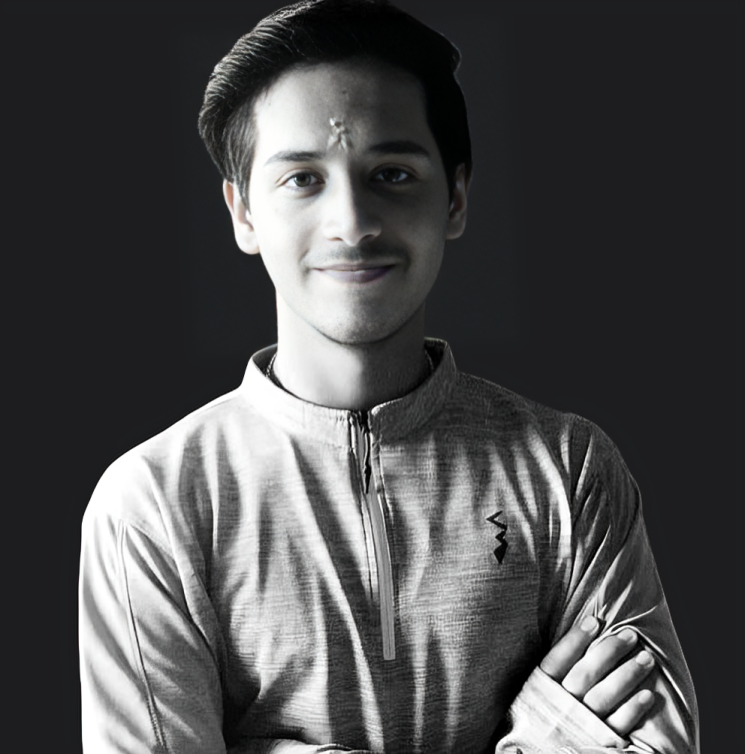
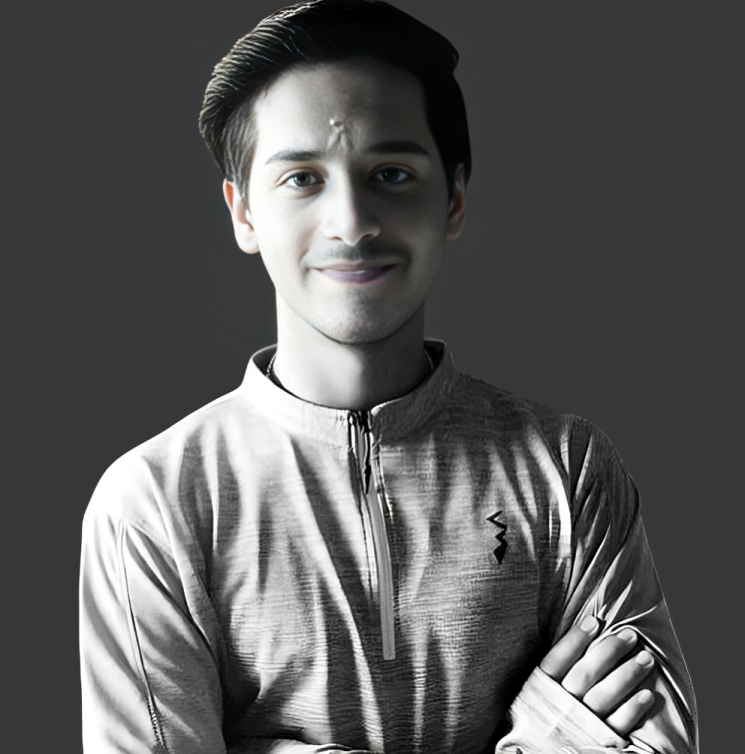
fix: successfull shifted the resume to landing page

diff --git a/app/page.jsx b/app/page.jsx
@@ -11,31 +11,32 @@ export default function Home() {
   const { onCursorIn, onCursorOut } = useHover();
 
   return (
-    <Box className="main-content mx-auto ">
-      <Box className="hero relative w-[90%] h-screen md:h-screen lg:h-auto mx-auto !z-30">
+    <Box className="relative top-[-20vh] main-content mt-0 mx-auto bg-[var(--gray-2)]">
+      {/* Hero */}
+      <Box className="hero relative w-full lg:w-[90%] lg:px-0 px-4 overflow-x-hidden  h-screen top-0 mx-auto !z-30">
         {/* Image */}
         <Box
-          className={`relative logo bg-center bg-contain bg-no-repeat !z-30 image-container top-[-12vh] left-[-20px] !w-[100vw] !h-[65vh] md:top-[20px] md:left-[-50px] md:!w-[640px] md:!h-[560px] lg:-top-[19.5vh] lg:left-[1vw] lg:!w-[47vw] lg:!h-[78vh]
+          className={`relative logo bg-center bg-contain bg-no-repeat !z-30 image-container top-[12vh] left-[-10px] !w-[100vw] !h-[65vh] md:top-[200px] md:left-[20px] md:!w-[640px] md:!h-[560px] lg:-top-[0] lg:left-[3vw] lg:!w-[47vw] lg:!h-[78vh] !overflow-hidden
         `}
         >
           <Image
-            src={"/images/me_blacknwhite.png"}
+            src={"/images/me_transparent.png"}
             layout="fill"
             objectFit="cover"
             alt="profile photo "
-            className="!z-30 bg-center !overflow-hidden"
+            className="!z-30 bg-center !overflow-hidden bg-[var(--gray-4)]"
             priority
           />
         </Box>
 
         {/* Heading */}
         <Box
-          className={`absolute top-[60vh] md:w-[360px] md:ml-[15px] md:mt-[115px] md:left-[50%] md:top-[40vh] md:bottom-auto lg:left-[45vw] lg:top-[45vh] lg:max-w-[560px]`}
+          className={`absolute top-[80vh] md:w-[360px] md:ml-[15px] md:mt-[115px] md:left-[50%] md:top-[60vh] md:bottom-auto lg:left-[45vw] lg:top-[65vh] lg:max-w-[560px]`}
         >
           <Heading
             as="h1"
             weight={"light"}
-            size={"6"}
+            size={{ md: "6", initial: "4" }}
             onMouseOver={onCursorIn}
             onMouseOut={onCursorOut}
           >
@@ -47,7 +48,7 @@ export default function Home() {
 
         {/* Typing animation */}
         <div
-          className={`absolute top-auto left-0 !bottom-[140px] text-[25px] pl-[50px] md:left-[50px] md:text-[60px] md:!bottom-[200px] lg:left-[20%] lg:text-[90px] lg:!bottom-[30px] `}
+          className={`absolute top-auto left-0 !bottom-[30px] text-[25px] pl-[50px] md:left-[10%] md:text-[60px] md:!bottom-[20px] lg:left-[20%] lg:text-[90px] lg:!bottom-[30px] `}
           onMouseOver={onCursorIn}
           onMouseOut={onCursorOut}
         >
@@ -58,6 +59,8 @@ export default function Home() {
           />
         </div>
       </Box>
+
+      {/* Resume */}
       <Box className="resume">
         {/* About */}
         <About />

diff --git a/app/components/_shared/HeaderPage.jsx b/app/components/_shared/HeaderPage.jsx
@@ -10,7 +10,7 @@ const HeaderPage = () => {
   const isMobile = useMediaQuery({ maxWidth: 720 });
 
   return (
-    <Box className="relative top-[-50px] md:top-[-90px] lg:top-[-180px] left-0 w-screen h-screen ">
+    <Box className="relative top-[-130px] md:top-[-100px] lg:top-[-200px] left-0 w-screen h-screen ">
       <Heading
         className={`absolute top-[50%] left-[50%] translate-y-[-50%] translate-x-[-50%] ${
           isMobile ? "!text-3xl" : isTab ? "!text-[8vw]" : "!text-[8.5vw]"

diff --git a/app/components/Section.jsx b/app/components/Section.jsx
@@ -4,7 +4,7 @@ const Section = ({ children, className }) => {
   return (
     <Box
       className={
-        `relative bg-[var(--gray-2)] lg:px-[20%] lg:py-[70px]  md:px-[50px] py-[50px] px-[30px] z-10 ` +
+        `relative bg-[var(--gray-1)] lg:px-[20%] lg:py-[70px]  md:px-[50px] py-[50px] px-[30px] z-10 ` +
         className
       }
     >
